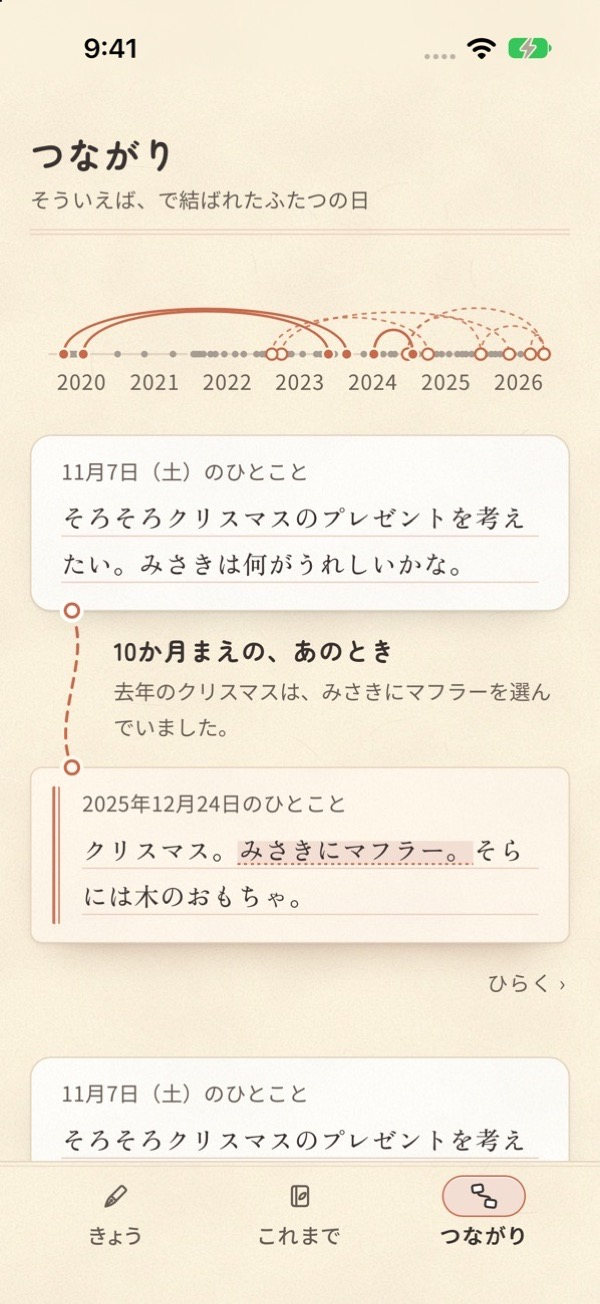
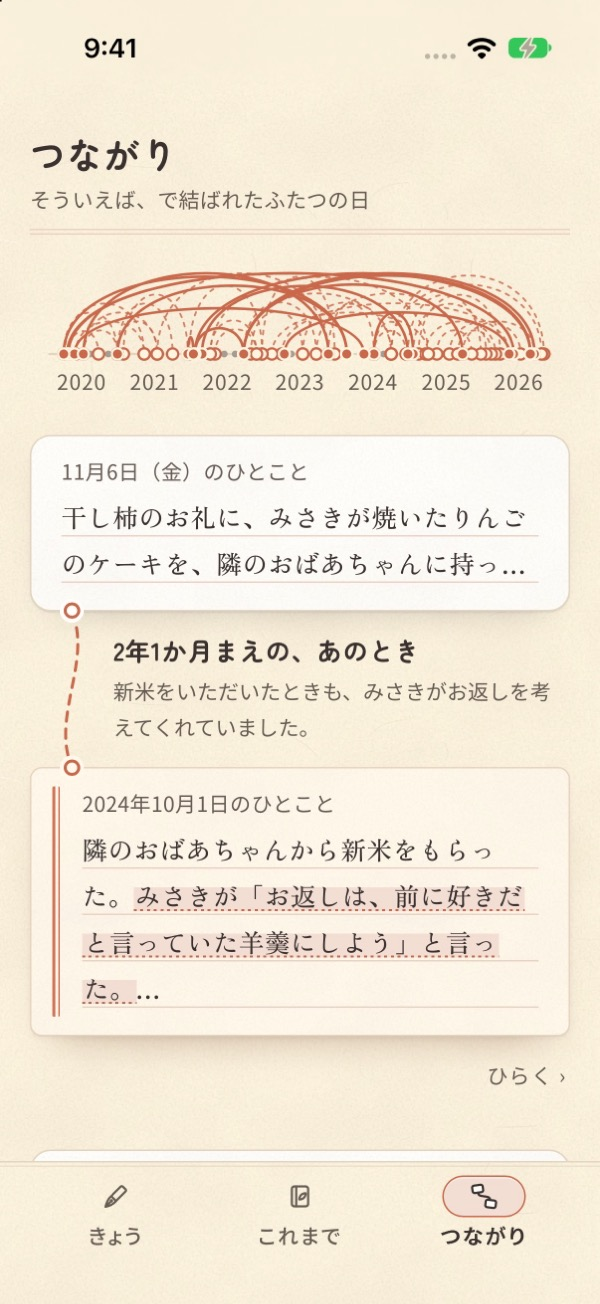
README の写しを撮り直す（札は前になくしたのと同じ紺色の手袋、つながりは 50 組、ことばの地図は糸の線、言葉のシートは展望台の 3 つの年）

diff --git a/README.md b/README.md
@@ -10,11 +10,11 @@ Built with Claude: Japan 2026 ハッカソンの個人開発（開発期間 2026
 
 | 書く | そういえば。 | つながり |
 |---|---|---|
-| <img src="docs/images/today.jpg" width="220" alt="書く画面。1年まえの、きょうのころ（そらがつかまり立ちした）と、このごろの押し葉"> | <img src="docs/images/recall.jpg" width="220" alt="保存すると浮かんだ「そういえば。」の札。2024年12月24日の「みさきに手袋をあげた。」の引用"> | <img src="docs/images/connections.jpg" width="220" alt="つながり。今日のひとことと、10か月まえのマフラーの日を糸で結んだ組"> |
+| <img src="docs/images/today.jpg" width="220" alt="書く画面。1年まえの、きょうのころ（そらがつかまり立ちした）と、このごろの押し葉"> | <img src="docs/images/recall.jpg" width="220" alt="保存すると浮かんだ「そういえば。」の札。2024年12月24日の「みさきに紺色の毛糸の手袋をあげた。前になくしたと言っていたのと同じ色。」の引用"> | <img src="docs/images/connections.jpg" width="220" alt="つながり。上の糸の帯に 50 の組、下に干し柿のお礼と 2 年 1 か月まえの新米の日を結んだ組"> |
 
 | 年月でたどる | ことばの地図 | ことばを押すと |
 |---|---|---|
-| <img src="docs/images/past.jpg" width="220" alt="これまで。2023年11月へたどり、年月の札が左上に浮かぶ"> | <img src="docs/images/words.jpg" width="220" alt="ことばの地図。年を縦に並べ、年ごとの言葉と、年をまたぐ言葉"> | <img src="docs/images/words-sheet.jpg" width="220" alt="「山の上の展望台」を押すと、2020年と2023年の一文が原文のまま並ぶ"> |
+| <img src="docs/images/past.jpg" width="220" alt="これまで。2023年11月へたどり、年月の札が左上に浮かぶ"> | <img src="docs/images/words.jpg" width="220" alt="ことばの地図。年を縦に並べ、年ごとの言葉と、年をまたぐ言葉を細い糸で結ぶ"> | <img src="docs/images/words-sheet.jpg" width="220" alt="「山の上の展望台」を押すと、2020年・2021年・2023年の一文が原文のまま並ぶ"> |
 
 写っているのは撮影用の架空のデータ（demo/fixtures/story.sql）。iPhone 17 の Simulator で撮った。
 
